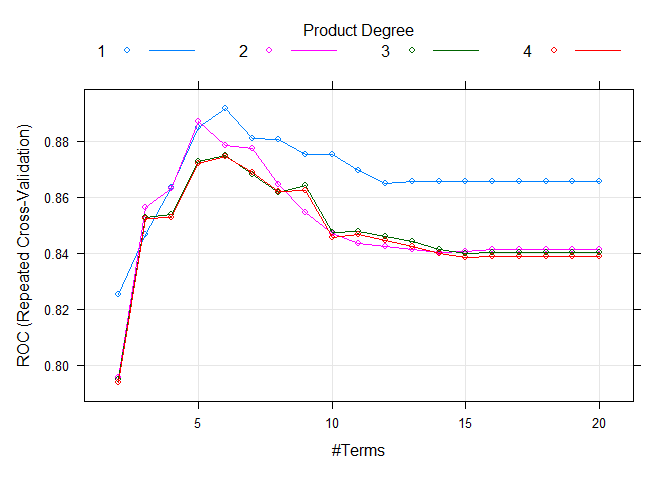
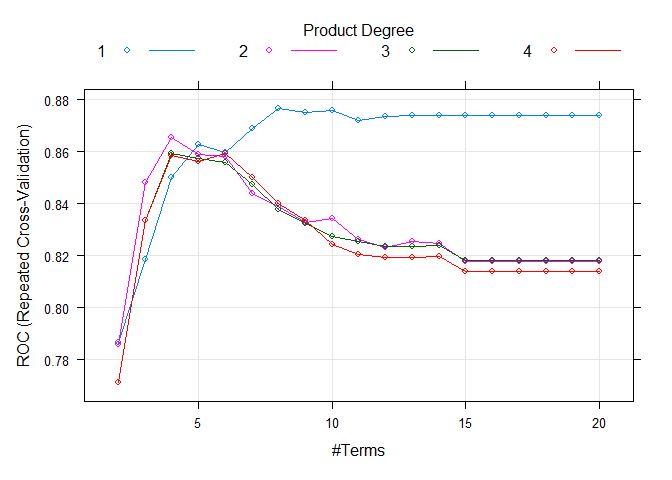
a little change in cv

diff --git a/midterm.md b/midterm.md
@@ -158,7 +158,7 @@ Full dataset is partitioned to 70% training data and 30% test data.
 $$log(\\frac{\\pi\_i}{1-\\pi\_i}) = \\beta\_0 + \\beta\_1x\_1 + \\beta\_2x\_2 + \\cdots + \\beta\_px\_p\\quad p=12$$
 
 ``` r
-ctrl <- trainControl(method = "repeatedcv", repeats = 5,
+ctrl <- trainControl(method = "repeatedcv", repeats = 5, number = 5,
                      summaryFunction = twoClassSummary,
                      classProbs = TRUE)
 
@@ -220,8 +220,8 @@ glmn.model <- train(x = hf_df[trainrows, -13],
 glmn.model$bestTune
 ```
 
-    ##     alpha    lambda
-    ## 179   0.2 0.1704641
+    ##    alpha    lambda
+    ## 68  0.05 0.8574039
 
 ## Logistic with GAM
 
@@ -245,10 +245,10 @@ gam.model$finalModel
     ##     s(age) + s(time) + s(platelets) + s(creatinine_phosphokinase)
     ## 
     ## Estimated degrees of freedom:
-    ## 1.5452 2.1921 5.6651 1.4792 8.9997 0.0000 0.0005 
-    ##  total = 25.88 
+    ## 1.46 1.00 2.13 1.00 9.00 3.58 7.90 
+    ##  total = 32.06 
     ## 
-    ## UBRE score: -0.2829606
+    ## UBRE score: -0.3571576
 
 ``` r
 summary(gam.model)
@@ -265,29 +265,29 @@ summary(gam.model)
     ## 
     ## Parametric coefficients:
     ##                     Estimate Std. Error z value Pr(>|z|)  
-    ## (Intercept)         -1.97924    1.10140  -1.797   0.0723 .
-    ## anaemia             -1.13985    0.62895  -1.812   0.0699 .
-    ## diabetes            -0.27436    0.58195  -0.471   0.6373  
-    ## high_blood_pressure -0.09577    0.59653  -0.161   0.8725  
-    ## sex                 -1.01700    0.66772  -1.523   0.1277  
-    ## smoking             -0.20193    0.64838  -0.311   0.7555  
+    ## (Intercept)         -14.8754    41.2918  -0.360   0.7187  
+    ## anaemia              -1.1052     0.7149  -1.546   0.1221  
+    ## diabetes             -1.0662     0.7414  -1.438   0.1504  
+    ## high_blood_pressure  -0.4843     0.7800  -0.621   0.5347  
+    ## sex                  -1.3565     0.8165  -1.661   0.0967 .
+    ## smoking              -0.3730     0.8696  -0.429   0.6680  
     ## ---
     ## Signif. codes:  0 '***' 0.001 '**' 0.01 '*' 0.05 '.' 0.1 ' ' 1
     ## 
     ## Approximate significance of smooth terms:
-    ##                                   edf Ref.df Chi.sq  p-value    
-    ## s(ejection_fraction)        1.545e+00      9 13.154 0.000337 ***
-    ## s(serum_sodium)             2.192e+00      9  5.330 0.059921 .  
-    ## s(serum_creatinine)         5.665e+00      9 10.129 0.083384 .  
-    ## s(age)                      1.479e+00      9  6.432 0.012822 *  
-    ## s(time)                     9.000e+00      9 34.476 4.85e-05 ***
-    ## s(platelets)                1.115e-05      9  0.000 0.455619    
-    ## s(creatinine_phosphokinase) 5.186e-04      9  0.000 0.319798    
+    ##                               edf Ref.df Chi.sq  p-value    
+    ## s(ejection_fraction)        1.457  1.795 10.806 0.002560 ** 
+    ## s(serum_sodium)             1.000  1.000  3.263 0.070880 .  
+    ## s(serum_creatinine)         2.127  2.681 10.039 0.018123 *  
+    ## s(age)                      1.000  1.000  8.468 0.003614 ** 
+    ## s(time)                     9.000  9.000 29.393 0.000552 ***
+    ## s(platelets)                3.580  4.420 10.168 0.060791 .  
+    ## s(creatinine_phosphokinase) 7.898  7.992 13.688 0.091188 .  
     ## ---
     ## Signif. codes:  0 '***' 0.001 '**' 0.01 '*' 0.05 '.' 0.1 ' ' 1
     ## 
-    ## R-sq.(adj) =  0.648   Deviance explained = 62.5%
-    ## UBRE = -0.28296  Scale est. = 1         n = 211
+    ## R-sq.(adj) =   0.73   Deviance explained =   73%
+    ## UBRE = -0.35716  Scale est. = 1         n = 211
 
 ## Logistic with MARS to add interaction
 
@@ -309,33 +309,35 @@ summary(mars.model)
 ```
 
     ## Call: earth(x=tbl_df[211,12], y=factor.object, keepxy=TRUE,
-    ##             glm=list(family=function.object, maxit=100), degree=1, nprune=6)
+    ##             glm=list(family=function.object, maxit=100), degree=1, nprune=8)
     ## 
     ## GLM coefficients
-    ##                                    Y
-    ## (Intercept)              -1.01927663
-    ## h(age-67)                 0.11401409
-    ## h(35-ejection_fraction)   0.18385539
-    ## h(1.83-serum_creatinine) -1.79626411
-    ## h(80-time)                0.05326049
-    ## h(time-80)               -0.00856679
+    ##                                   Y
+    ## (Intercept)               1.6160105
+    ## h(age-67)                 0.1254412
+    ## h(35-ejection_fraction)   0.1844068
+    ## h(1.83-serum_creatinine) -2.0269340
+    ## h(time-64)               -0.2397973
+    ## h(time-80)                0.2690722
+    ## h(time-170)              -0.1331508
+    ## h(time-210)               0.1261266
     ## 
     ## GLM (family binomial, link logit):
     ##  nulldev  df       dev  df   devratio     AIC iters converged
-    ##  265.257 210   135.406 205       0.49   147.4     6         1
+    ##  265.257 210    125.66 203      0.526   141.7     6         1
     ## 
-    ## Earth selected 6 of 19 terms, and 4 of 12 predictors (nprune=6)
+    ## Earth selected 8 of 19 terms, and 4 of 12 predictors (nprune=8)
     ## Termination condition: Reached nk 25
-    ## Importance: time, ejection_fraction, serum_creatinine, age, anaemia-unused, ...
-    ## Number of terms at each degree of interaction: 1 5 (additive model)
-    ## Earth GCV 0.1162873    RSS 22.04499    GRSq 0.472617    RSq 0.5216481
+    ## Importance: time, ejection_fraction, serum_creatinine, age, ...
+    ## Number of terms at each degree of interaction: 1 7 (additive model)
+    ## Earth GCV 0.1139433    RSS 20.74524    GRSq 0.4832478    RSq 0.5498514
 
 ``` r
 mars.model$bestTune
 ```
 
     ##   nprune degree
-    ## 5      6      1
+    ## 7      8      1
 
 ``` r
 pdp::partial(mars.model, pred.var = c("age"), grid.resolution = 200) %>% autoplot()
@@ -508,26 +510,26 @@ confusionMatrix(data = as.factor(test.glmn), reference = hf_df$death_event[-trai
     ## 
     ##           Reference
     ## Prediction  N  Y
-    ##          N 60 20
-    ##          Y  0  8
+    ##          N 60 28
+    ##          Y  0  0
     ##                                           
-    ##                Accuracy : 0.7727          
-    ##                  95% CI : (0.6711, 0.8553)
+    ##                Accuracy : 0.6818          
+    ##                  95% CI : (0.5739, 0.7771)
     ##     No Information Rate : 0.6818          
-    ##     P-Value [Acc > NIR] : 0.0401          
+    ##     P-Value [Acc > NIR] : 0.551           
     ##                                           
-    ##                   Kappa : 0.3529          
+    ##                   Kappa : 0               
     ##                                           
-    ##  Mcnemar's Test P-Value : 2.152e-05       
+    ##  Mcnemar's Test P-Value : 3.352e-07       
     ##                                           
-    ##             Sensitivity : 0.28571         
-    ##             Specificity : 1.00000         
-    ##          Pos Pred Value : 1.00000         
-    ##          Neg Pred Value : 0.75000         
-    ##              Prevalence : 0.31818         
-    ##          Detection Rate : 0.09091         
-    ##    Detection Prevalence : 0.09091         
-    ##       Balanced Accuracy : 0.64286         
+    ##             Sensitivity : 0.0000          
+    ##             Specificity : 1.0000          
+    ##          Pos Pred Value :    NaN          
+    ##          Neg Pred Value : 0.6818          
+    ##              Prevalence : 0.3182          
+    ##          Detection Rate : 0.0000          
+    ##    Detection Prevalence : 0.0000          
+    ##       Balanced Accuracy : 0.5000          
     ##                                           
     ##        'Positive' Class : Y               
     ## 
@@ -542,28 +544,28 @@ confusionMatrix(data = as.factor(test.gam), reference = hf_df$death_event[-train
     ## 
     ##           Reference
     ## Prediction  N  Y
-    ##          N 56 15
-    ##          Y  4 13
-    ##                                           
-    ##                Accuracy : 0.7841          
-    ##                  95% CI : (0.6835, 0.8647)
-    ##     No Information Rate : 0.6818          
-    ##     P-Value [Acc > NIR] : 0.02309         
-    ##                                           
-    ##                   Kappa : 0.4441          
-    ##                                           
-    ##  Mcnemar's Test P-Value : 0.02178         
-    ##                                           
-    ##             Sensitivity : 0.4643          
-    ##             Specificity : 0.9333          
-    ##          Pos Pred Value : 0.7647          
-    ##          Neg Pred Value : 0.7887          
-    ##              Prevalence : 0.3182          
-    ##          Detection Rate : 0.1477          
-    ##    Detection Prevalence : 0.1932          
-    ##       Balanced Accuracy : 0.6988          
-    ##                                           
-    ##        'Positive' Class : Y               
+    ##          N 56 14
+    ##          Y  4 14
+    ##                                          
+    ##                Accuracy : 0.7955         
+    ##                  95% CI : (0.6961, 0.874)
+    ##     No Information Rate : 0.6818         
+    ##     P-Value [Acc > NIR] : 0.01252        
+    ##                                          
+    ##                   Kappa : 0.4789         
+    ##                                          
+    ##  Mcnemar's Test P-Value : 0.03389        
+    ##                                          
+    ##             Sensitivity : 0.5000         
+    ##             Specificity : 0.9333         
+    ##          Pos Pred Value : 0.7778         
+    ##          Neg Pred Value : 0.8000         
+    ##              Prevalence : 0.3182         
+    ##          Detection Rate : 0.1591         
+    ##    Detection Prevalence : 0.2045         
+    ##       Balanced Accuracy : 0.7167         
+    ##                                          
+    ##        'Positive' Class : Y              
     ## 
 
 ``` r
@@ -576,26 +578,26 @@ confusionMatrix(data = as.factor(test.mars), reference = hf_df$death_event[-trai
     ## 
     ##           Reference
     ## Prediction  N  Y
-    ##          N 58  8
-    ##          Y  2 20
+    ##          N 56 10
+    ##          Y  4 18
     ##                                           
-    ##                Accuracy : 0.8864          
-    ##                  95% CI : (0.8009, 0.9441)
+    ##                Accuracy : 0.8409          
+    ##                  95% CI : (0.7475, 0.9102)
     ##     No Information Rate : 0.6818          
-    ##     P-Value [Acc > NIR] : 6.9e-06         
+    ##     P-Value [Acc > NIR] : 0.0005567       
     ##                                           
-    ##                   Kappa : 0.7222          
+    ##                   Kappa : 0.6111          
     ##                                           
-    ##  Mcnemar's Test P-Value : 0.1138          
+    ##  Mcnemar's Test P-Value : 0.1814492       
     ##                                           
-    ##             Sensitivity : 0.7143          
-    ##             Specificity : 0.9667          
-    ##          Pos Pred Value : 0.9091          
-    ##          Neg Pred Value : 0.8788          
+    ##             Sensitivity : 0.6429          
+    ##             Specificity : 0.9333          
+    ##          Pos Pred Value : 0.8182          
+    ##          Neg Pred Value : 0.8485          
     ##              Prevalence : 0.3182          
-    ##          Detection Rate : 0.2273          
+    ##          Detection Rate : 0.2045          
     ##    Detection Prevalence : 0.2500          
-    ##       Balanced Accuracy : 0.8405          
+    ##       Balanced Accuracy : 0.7881          
     ##                                           
     ##        'Positive' Class : Y               
     ## 
